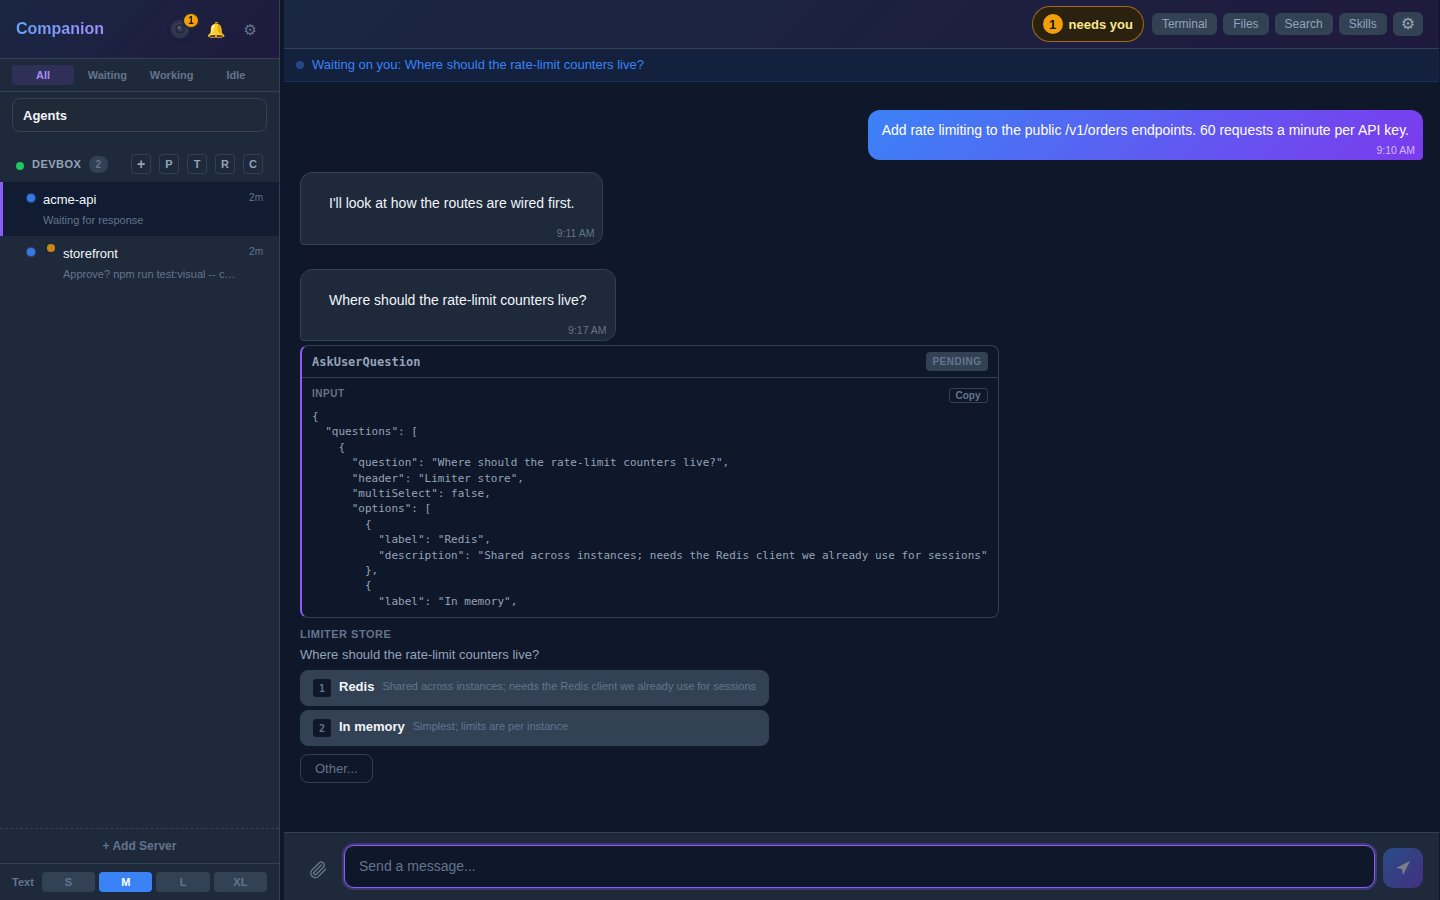
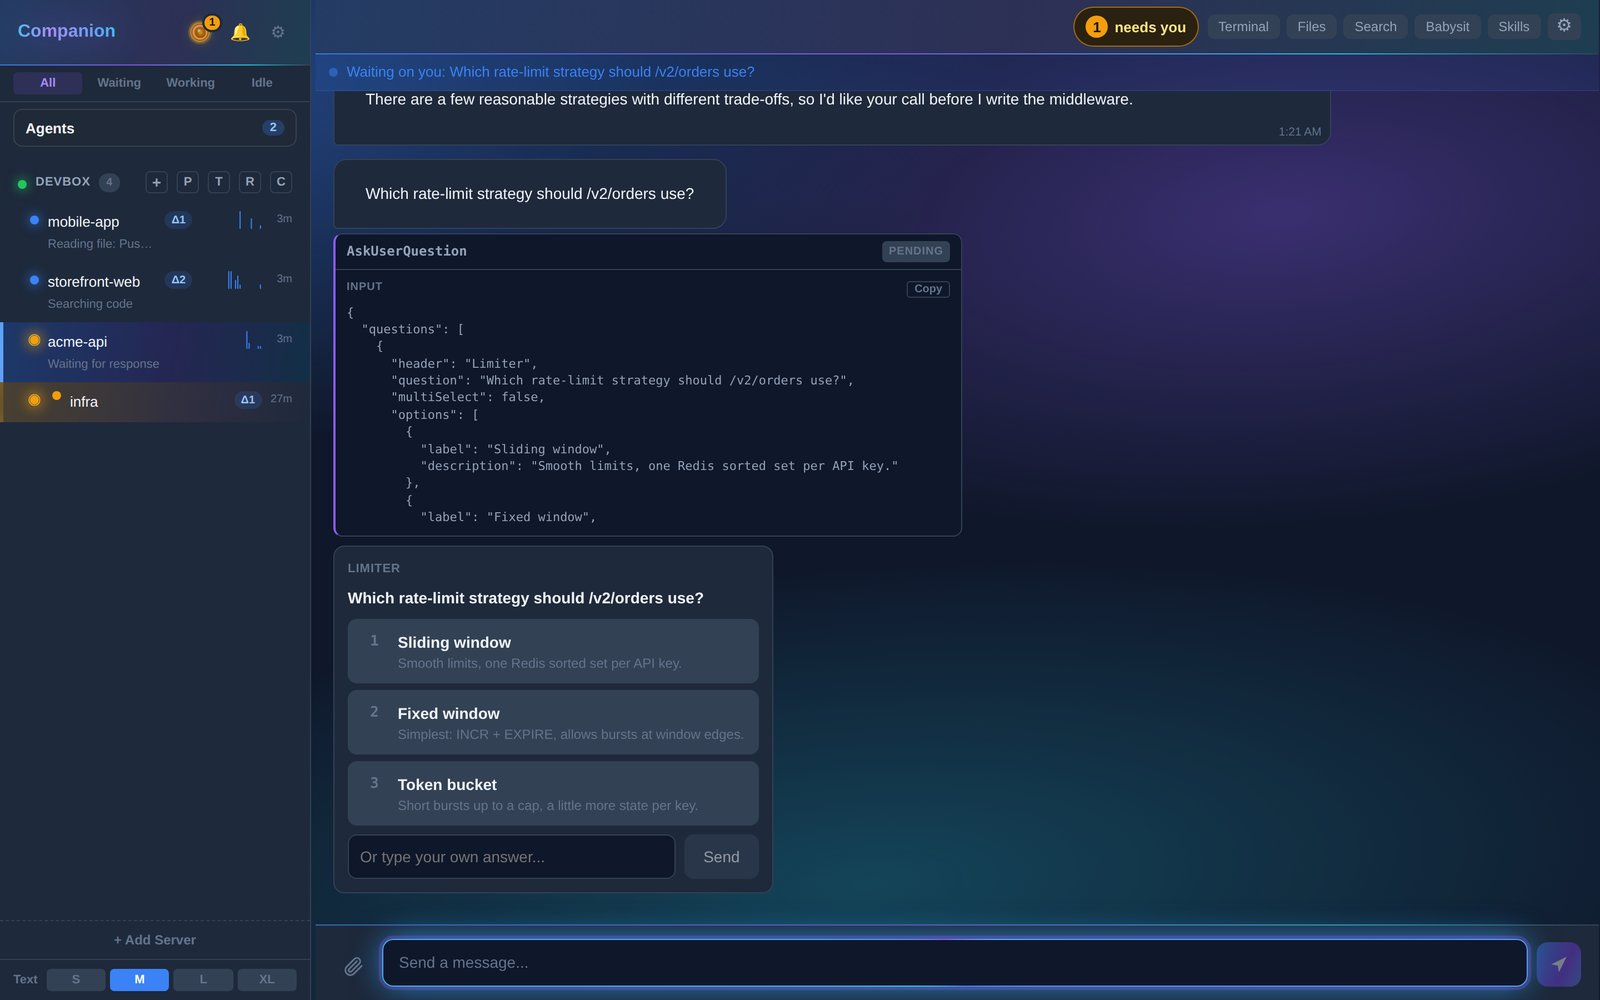
docs(readme): refresh README and screenshots; track shipped work
- README: updated feature overview with new screenshots (desktop, phone,
  Mission Control, Projects tab, agents, AUQ card, themes)
- FEATURES.md: Aurora flair + Graphite, AUQ early-transcript fix, mobile
  header fix
- todo.md: drop the done screenshot re-shoot item; park the agent
  extensibility cleanup

diff --git a/README.md b/README.md
@@ -4,26 +4,55 @@
 
 Watch and drive your Claude Code and Codex CLI sessions from a phone, a browser or a desktop app. A small daemon runs next to your coding agents in tmux, reads their transcripts as they are written, and tells you the moment one needs you: a question, a permission prompt, a failed turn, a session that looks stuck. You answer from wherever you are, and the answer is typed into the real terminal.
 
-![Web client: a Claude Code session waiting on an AskUserQuestion, with the answer options as buttons](docs/screenshots/web-desk.jpg)
+![Web client with the Aurora flair theme: acme-api is waiting on a Claude Code AskUserQuestion, answered from a live card with three options and a free-text field](docs/screenshots/web-desk.jpg)
 
-| On a phone | |
+| On a phone | Mission Control |
 |---|---|
-| <img src="docs/screenshots/web-phone.jpg" alt="The same session on a phone" width="300"> | The sidebar lists every session on every paired server with its state (waiting, working, idle). The open session is `acme-api`, paused on a pending `AskUserQuestion`; tapping **Redis** or **In memory** answers it in the terminal. `storefront` is waiting on a Bash approval.<br><br>*Rendered from the production web build against a sandboxed daemon with made-up sessions.* |
+| <img src="docs/screenshots/web-phone.jpg" alt="Session list on a phone: acme-api and infra waiting, mobile-app and storefront-web working, storefront-web running two subagents" width="300"> | <img src="docs/screenshots/mission-control-phone.jpg" alt="Mission Control overview on a phone: a Needs you strip, and the acme-api tile answering its question with Sliding window, Fixed window or Token bucket buttons" width="300"> |
+
+Every session on every paired server shows up with its state (waiting, working, idle) and a one-line status. `acme-api` is paused on a pending `AskUserQuestion` ("Which rate-limit strategy should /v2/orders use?"); tapping an option, in the chat or straight from its Mission Control tile, answers it in the terminal. `storefront-web` is searching code with two subagents still running.
+
+*Rendered from the production web build (1.0.619) against a sandboxed daemon with made-up sessions.*
+
+## Answering Claude Code's questions from the chat
+
+When Claude Code asks a multiple-choice question (`AskUserQuestion`), Companion shows it as a live card and you answer it from the phone, browser or desktop app. The answer is typed into the real terminal session, so Claude Code receives it exactly as if you had pressed the keys.
+
+<img src="docs/screenshots/auq-card.jpg" alt="The live AskUserQuestion card: header Limiter, the question, three numbered options with descriptions, and a field to type your own answer" width="420">
+
+- **Every shape of the box.** Single choice, single choice with Other, multi-select, several questions with tabs and a review screen, previews, and long labels that wrap at any terminal width.
+- **A card that follows the terminal.** It shows question *i* of *n* with the answered tabs, Back, and the checks already taken in the terminal. If you answer at the keyboard instead, the card catches up.
+- **Safe by construction.** The box is not in the transcript until it is answered, so the daemon reads the live tmux pane. It presses one key at a time and checks each took effect. Every action carries the signature of the box it was meant for, and a box that changed in the meantime is refused instead of answered wrongly. The review screen is never submitted without an explicit Submit, and free text is refused while the box is up, because typed digits or Enter would answer it.
+- **Tested against the real thing.** Nothing about this box is a public API, so it is checked two ways: fixture tests built from real Claude Code pane captures on every test run, and a live canary (`bin/test-cc-contract`) that starts the installed `claude` on a private tmux server, has it ask nine scripted questions, answers them through the real input path and compares the screens and the transcript. It runs when Claude Code updates, so a changed prompt layout shows up as a failed check rather than a wrong answer. See [docs/cc-contract-tests.md](docs/cc-contract-tests.md).
+
+Single-choice prompts can also be answered straight from a tile in the Mission Control overview (below). Limits: previews are shown in the terminal, not in the card, and multi-select boxes with more than 9 rows are refused.
 
 ## What it does
 
-- **One inbox for many sessions.** Every tmux session running Claude Code or Codex shows up with its state. Questions, plan approvals and tool permissions render as buttons; free text goes to the prompt.
-- **Notifications that mean something.** Browser notifications first, then FCM push after a delay if you have not looked (two-tier escalation, quiet hours). A failed turn notifies only when the turn *ends* on an unresolved error, so red-then-green TDD stays quiet.
+- **One inbox for many sessions.** Every tmux session running Claude Code or Codex shows up with its state. Questions, plan approvals, tool permissions and start-up prompts (trust this folder, bypass permissions) render as buttons or cards; free text goes to the prompt. A one-line status says what the session is doing right now, and background subagents count as working, not waiting.
+- **Mission Control overview.** On a phone, a tile per session across all servers with a "Needs you" strip and a "done" state for sessions that finished and reported back. Single-choice, approval and trust prompts can be answered from the tile, and a changed prompt is refused instead of mis-answered.
+- **Recaps.** Claude Code's own "while you were away" recaps appear as a muted card in the chat and as a subtitle on session rows.
+- **Notifications that mean something.** Browser notifications first, then FCM push after a delay if you have not looked (two-tier escalation, quiet hours). On return, a "while you were away" card on the dashboard summarises what finished, waited or failed. A failed turn notifies only when the turn *ends* on an unresolved error, so red-then-green TDD stays quiet.
 - **Stuck detection, no LLM.** Deterministic signals over the parsed transcript: the same failing test recurring, the same tool call with the same result, an edit undone and redone, no progress for 30 minutes, a hung tool call with an unchanged screen. See [docs/stuck-detection.md](docs/stuck-detection.md).
-- **Code review per turn.** Edits are grouped by the turn that made them, with exact hunks, mark-reviewed and revert, for Claude and Codex alike.
+- **Code review per turn.** Edits are grouped by the turn that made them, with exact hunks, mark-reviewed and revert, for Claude and Codex alike, with risk flags and a short summary per turn.
+- **Subagent visibility.** A dispatch panel and an all-sessions Agents page show each subagent's state, activity and timeline, with a deterministic one-line rollup and stuck signals.
+- **Start sessions without typing paths.** New sessions can start as Claude Code or Codex, in a favorite folder from the Projects tab or a recent directory (recents are kept on the daemon and shared across your devices), under any account profile.
+- **Themes.** Six color themes (Midnight, Ocean, Forest, Warm, Rose, Graphite) and the Aurora flair layer (gradients, glow and motion) at Off, Subtle or Full. Off keeps the flat look, and flair follows the system's reduced-motion setting.
+- **Several accounts.** Account profiles let you watch more than one Claude or Codex login at once (for example personal and work), and Settings > Accounts > Log in runs the login for you with the link and device code shown in the app ([docs/profiles.md](docs/profiles.md)).
 - **Terminal, files and search.** A live terminal view, a file viewer and conversation search for each session ([docs/SESSION-CONTROLS.md](docs/SESSION-CONTROLS.md)).
+- **Cost and usage.** Cost and usage dashboards with daily totals and budget alerts.
 - **Herald**, an optional conversational layer with local voice (TTS, STT, wake word) that can brief you on all sessions and act through the same guarded input paths ([docs/herald.md](docs/herald.md)).
-- **Remote control for other agents.** `mcp/` exposes paired daemons to Claude Code as MCP tools (list sessions, read, send input, dispatch work), and `concierge/` is a routing session built on it.
+- **Remote control for other agents.** `mcp/` exposes paired daemons to Claude Code as MCP tools (list sessions, read, send input, dispatch work, check a session's subagents with `remote_subagent_status`), and `concierge/` is a routing session built on it.
+
+| Projects tab | Agents | Themes |
+|---|---|---|
+| <img src="docs/screenshots/projects-tab.jpg" alt="New Session panel on a phone: the Projects tab with recent folders and the subfolders of a pinned favorite folder" width="240"> | <img src="docs/screenshots/agents.jpg" alt="Agents page: storefront-web with two running subagents and one done" width="420"> | <img src="docs/screenshots/themes.jpg" alt="Settings: the six themes and the Flair Off, Subtle, Full control" width="300"> |
 
 ## Platforms
 
 - **Web**: React + Vite + TypeScript, served by the daemon at `http://<host>:9877/web/`.
-- **Android, iOS, macOS, Linux, Windows**: the same web code wrapped with Tauri 2. The [latest release](https://github.com/Hexidecibel/companion/releases/latest) (v0.2.5) ships an Android APK, an iOS IPA, a macOS `.dmg` (Apple silicon), a Linux `.deb` and a Windows `setup.exe`.
+- **Android, iOS, macOS, Linux, Windows**: the same web code wrapped with Tauri 2: an Android APK, an iOS build on TestFlight, a macOS `.dmg` (Apple silicon), a Linux `.deb` / AppImage and a Windows `setup.exe`.
+- **Versions and updates**: builds are numbered `1.0.<commit count>` (1.0.619 at the time of writing) and every platform is released together. Installed apps update themselves: desktop apps from the daemon's own feed, the Android app through a verified in-app APK update, and the iOS app shows a banner when a new TestFlight build is out ([docs/desktop-mobile.md](docs/desktop-mobile.md)). Tagged builds with downloadable installers are on [GitHub Releases](https://github.com/Hexidecibel/companion/releases).
 - **Docker**: `ghcr.io/hexidecibel/companion`, built and smoke-tested by the [Docker workflow](.github/workflows/docker.yml).
 
 ## Architecture
@@ -153,12 +182,12 @@ To uninstall: `bin/companion autostart disable && rm -rf ~/.companion`.
 ## Tests and CI
 
 ```bash
-cd daemon && npm test     # Jest: 1,990 tests in 121 suites
-cd web && npm test        # Vitest: 136 test files
-cd mcp && npm test        # 3 tests
+cd daemon && npm test     # Jest
+cd web && npm test        # Vitest
+cd mcp && npm test
 ```
 
-The [CI workflow](.github/workflows/ci.yml) runs typecheck, lint, format check, tests (with Codecov coverage) and build for the daemon, and typecheck, tests and build for the web client, on every push and pull request to `main`. The [Docker workflow](.github/workflows/docker.yml) builds the image and smoke-tests it, and [release.yml](.github/workflows/release.yml) builds the daemon package and the Android, iOS and desktop Tauri apps for each `v*` tag. At the time of writing a handful of tests fail locally (3 daemon tests, 1 web test file) and the latest CI run on `main` is red on the daemon test step.
+The [CI workflow](.github/workflows/ci.yml) runs typecheck, lint, format check, tests (with Codecov coverage) and build for the daemon, and typecheck, tests and build for the web client, on every push and pull request to `main`. The [Docker workflow](.github/workflows/docker.yml) builds the image and smoke-tests it, and [release.yml](.github/workflows/release.yml) builds the daemon package and the Android, iOS and desktop Tauri apps for each `v*` tag.
 
 ## Documentation
 
@@ -169,6 +198,10 @@ The [CI workflow](.github/workflows/ci.yml) runs typecheck, lint, format check, 
 | [Session controls](docs/SESSION-CONTROLS.md) | Conversation viewer, file viewer, terminal, keyboard shortcuts |
 | [Notifications](docs/NOTIFICATIONS.md) | Push notifications, escalation, quiet hours |
 | [Architecture](docs/ARCHITECTURE.md) | System design, WebSocket protocol, parser internals |
+| [Account profiles](docs/profiles.md) | Several Claude / Codex logins, one-tap login |
+| [Claude Code contract tests](docs/cc-contract-tests.md) | How AskUserQuestion answering is tested, including the live canary |
+| [Code review](docs/code-review-2.md) | Per-turn review ledger, risk flags and reverts |
+| [Desktop and mobile](docs/desktop-mobile.md) | Tauri builds, signing and auto-update |
 | [Codex](docs/codex.md) | Codex CLI adapter and its parity with Claude Code |
 | [Stuck detection](docs/stuck-detection.md) | Signals, thresholds and pane-capture rules |
 | [Herald](docs/herald.md) | The conversational layer, voice and remote triggers |

diff --git a/FEATURES.md b/FEATURES.md
@@ -750,3 +750,17 @@ The new-session panel gets a Projects tab so you can start a session in a known 
 - Favorite roots (`favorite_dirs` in the daemon config, e.g. ~/local/src) list their subfolders; add/remove from the panel (`add_favorite_dir` / `remove_favorite_dir`)
 - Recent directories now live on the daemon (`~/.companion/recent-dirs.json`) and are shared across devices; `get_project_dirs` returns recents plus favorites with their entries (older daemons fall back to the local list)
 - Fix: directories of live tmux sessions are now actually merged into recents
+
+## Aurora flair + Graphite theme (2026-11-15)
+An optional flair layer on top of every theme, plus a new neutral theme.
+
+- Flair level Off / Subtle / Full in Settings (default Full, synced to the native store): glow, gradient borders and motion on cards, status dots, waiting sessions and the Herald orb corona
+- Tokens per theme x level generated by `web/scripts/gen-flair-tokens.mjs` into `flair-tokens.css`; Off has no tokens, so every rule falls back to the flat look
+- New Graphite theme (charcoal and silver); the theme grid is a fixed 3 columns that fits phones
+
+## AUQ written early to the transcript (2026-11-15)
+- A pending AskUserQuestion that Claude Code flushes to the transcript before it is answered no longer skips the live tmux pane scrape, so the answerable live box still shows
+- The live card replaces the transcript copy of the same question instead of showing both; a pending-AUQ fallback card shows in the web chat when no live box is available
+
+## Mobile header fits narrow phones (2026-11-15)
+- The Herald pill pushed the settings gear off screen on phones; the title now truncates, gaps tighten, and under 480px the Herald label hides (orb only)

diff --git a/todo.md b/todo.md
@@ -13,6 +13,7 @@ Quick capture for ideas and tasks. Run `/plan` to process into detailed plans.
 - Flaky test: `daemon` `subagents/__tests__/surfaces.test.ts` (real fs.watch; failed once in the 1.0.617 gate, 8/8 solo)
 - BUG: a new session alone in its folder can display an older transcript via `ensureConversationLoaded`
 - BUG: plain `codex` parks on an "Update available" screen that shows only in the terminal, so the app sees nothing to answer
+- Agent extensibility cleanup (parked; do before adding a 3rd CLI) -- `daemon/src/agents/` has an AgentAdapter seam, but ~25 files hardcode `'claude' | 'codex'` / `=== 'codex'` (websocket.ts, handler-context.ts, herald/*, profiles/*; web CodingAgent type, AgentPicker, SessionView, MobileDashboard, SessionSidebar, SessionTile, NewProjectModal, ProfilesSettings). Plan: one source-of-truth id list, daemon sends agent metadata/capabilities to web, profiles/login as an optional adapter part, generic per-agent launch env instead of `launchEnv({codexHome})`
 - Flaky tests: `daemon` `ledger-codex.test.ts:189`; `daemon` `tracker.test.ts:520` (wall-clock slice limit, 51.37 vs 50 ms under full-suite load)
 - Packaging follow-ups -- (1) "Get the apps" should link a proper signed/notarized macOS .dmg for friends, not the updater .app.tar.gz; (2) include Concierge in the Docker image; (3) /health reports version 1.0.0 on host installs vs 1.0.<n> in the image -- unify version source; (4) live-test with a friend: host-network mode (Nearby discovery), Tailscale sidecar joining a real tailnet, interactive /login in the container. See plan.md 'Packaging for friends & devs'
 - Developer ID cert expires 2027-02-01 -- renew + re-run bin/desktop-signing import-devid before then
